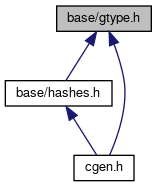
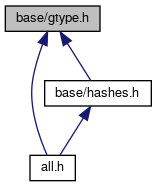
deploy: f9b943997057061925050f82cd76a0b1906fe555

diff --git a/core_8h_source.html b/core_8h_source.html
@@ -70,51 +70,49 @@ $(function() {
   <div class="headertitle"><div class="title">core.h</div></div>
 </div><!--header-->
 <div class="contents">
-<div class="fragment"><div class="line"><a id="l00001" name="l00001"></a><span class="lineno">    1</span><span class="comment">/*</span></div>
-<div class="line"><a id="l00002" name="l00002"></a><span class="lineno">    2</span><span class="comment">  (C) 2021 Nguyen Ba Ngoc (bangoc)</span></div>
-<div class="line"><a id="l00003" name="l00003"></a><span class="lineno">    3</span><span class="comment">*/</span></div>
-<div class="line"><a id="l00004" name="l00004"></a><span class="lineno">    4</span> </div>
-<div class="line"><a id="l00005" name="l00005"></a><span class="lineno">    5</span><span class="preprocessor">#ifndef BASE_CORE_H_</span></div>
-<div class="line"><a id="l00006" name="l00006"></a><span class="lineno">    6</span><span class="preprocessor">#define BASE_CORE_H_</span></div>
-<div class="line"><a id="l00007" name="l00007"></a><span class="lineno">    7</span> </div>
-<div class="line"><a id="l00008" name="l00008"></a><span class="lineno">    8</span><span class="preprocessor">#include &lt;stddef.h&gt;</span></div>
-<div class="line"><a id="l00009" name="l00009"></a><span class="lineno">    9</span><span class="preprocessor">#include &lt;time.h&gt;</span></div>
-<div class="line"><a id="l00010" name="l00010"></a><span class="lineno">   10</span> </div>
-<div class="line"><a id="l00011" name="l00011"></a><span class="lineno">   11</span><span class="preprocessor">#define container_of(ptr, type, member) \</span></div>
-<div class="line"><a id="l00012" name="l00012"></a><span class="lineno">   12</span><span class="preprocessor">  ((type *)((void*)(ptr) - offsetof(type, member)))</span></div>
+<div class="fragment"><div class="line"><a id="l00001" name="l00001"></a><span class="lineno">    1</span><span class="comment">/* (C) 2021 Nguyen Ba Ngoc (bangoc) */</span></div>
+<div class="line"><a id="l00002" name="l00002"></a><span class="lineno">    2</span> </div>
+<div class="line"><a id="l00003" name="l00003"></a><span class="lineno">    3</span><span class="preprocessor">#ifndef BASE_CORE_H_</span></div>
+<div class="line"><a id="l00004" name="l00004"></a><span class="lineno">    4</span><span class="preprocessor">#define BASE_CORE_H_</span></div>
+<div class="line"><a id="l00005" name="l00005"></a><span class="lineno">    5</span> </div>
+<div class="line"><a id="l00006" name="l00006"></a><span class="lineno">    6</span><span class="preprocessor">#include &lt;stddef.h&gt;</span></div>
+<div class="line"><a id="l00007" name="l00007"></a><span class="lineno">    7</span><span class="preprocessor">#include &lt;time.h&gt;</span></div>
+<div class="line"><a id="l00008" name="l00008"></a><span class="lineno">    8</span> </div>
+<div class="line"><a id="l00009" name="l00009"></a><span class="lineno">    9</span><span class="preprocessor">#define container_of(ptr, type, member) \</span></div>
+<div class="line"><a id="l00010" name="l00010"></a><span class="lineno">   10</span><span class="preprocessor">  ((type *)((void*)(ptr) - offsetof(type, member)))</span></div>
+<div class="line"><a id="l00011" name="l00011"></a><span class="lineno">   11</span> </div>
+<div class="line"><a id="l00012" name="l00012"></a><span class="lineno">   12</span><span class="preprocessor">#define New(TYPE, ...) TYPE ## _create(  __VA_ARGS__ )</span></div>
 <div class="line"><a id="l00013" name="l00013"></a><span class="lineno">   13</span> </div>
-<div class="line"><a id="l00014" name="l00014"></a><span class="lineno">   14</span><span class="preprocessor">#define New(TYPE, ...) TYPE ## _create(  __VA_ARGS__ )</span></div>
-<div class="line"><a id="l00015" name="l00015"></a><span class="lineno">   15</span> </div>
-<div class="line"><a id="l00016" name="l00016"></a><span class="lineno">   16</span><span class="preprocessor">#define Delete(TYPE, ptr) do        \</span></div>
-<div class="line"><a id="l00017" name="l00017"></a><span class="lineno">   17</span><span class="preprocessor">        {       \</span></div>
-<div class="line"><a id="l00018" name="l00018"></a><span class="lineno">   18</span><span class="preprocessor">          TYPE ## _free(ptr); \</span></div>
-<div class="line"><a id="l00019" name="l00019"></a><span class="lineno">   19</span><span class="preprocessor">          </span><span class="comment">/*free(ptr);*/</span><span class="preprocessor">    \</span></div>
-<div class="line"><a id="l00020" name="l00020"></a><span class="lineno">   20</span><span class="preprocessor">        }       \</span></div>
-<div class="line"><a id="l00021" name="l00021"></a><span class="lineno">   21</span><span class="preprocessor">        while(0)</span></div>
-<div class="line"><a id="l00022" name="l00022"></a><span class="lineno">   22</span> </div>
-<div class="line"><a id="l00023" name="l00023"></a><span class="lineno">   23</span><span class="preprocessor">#define BENCH(NAME, ITER, ...)    do { \</span></div>
-<div class="line"><a id="l00024" name="l00024"></a><span class="lineno">   24</span><span class="preprocessor">        double _sum = 0, _start, _stop; \</span></div>
-<div class="line"><a id="l00025" name="l00025"></a><span class="lineno">   25</span><span class="preprocessor">        for (int _i = 0; _i &lt; ITER; ++_i) { \</span></div>
-<div class="line"><a id="l00026" name="l00026"></a><span class="lineno">   26</span><span class="preprocessor">          _start = clock(); \</span></div>
-<div class="line"><a id="l00027" name="l00027"></a><span class="lineno">   27</span><span class="preprocessor">          { __VA_ARGS__; } \</span></div>
-<div class="line"><a id="l00028" name="l00028"></a><span class="lineno">   28</span><span class="preprocessor">          _stop = clock(); \</span></div>
-<div class="line"><a id="l00029" name="l00029"></a><span class="lineno">   29</span><span class="preprocessor">          _sum += _stop - _start; \</span></div>
-<div class="line"><a id="l00030" name="l00030"></a><span class="lineno">   30</span><span class="preprocessor">        } \</span></div>
-<div class="line"><a id="l00031" name="l00031"></a><span class="lineno">   31</span><span class="preprocessor">        if (ITER &gt; 1) { \</span></div>
-<div class="line"><a id="l00032" name="l00032"></a><span class="lineno">   32</span><span class="preprocessor">          printf(&quot;%s (trung bình %d lượt) = %.5g s\n&quot;</span>, \</div>
-<div class="line"><a id="l00033" name="l00033"></a><span class="lineno">   33</span>                NAME, ITER,  (_sum/CLOCKS_PER_SEC) / ITER); \</div>
-<div class="line"><a id="l00034" name="l00034"></a><span class="lineno">   34</span>        } else { \</div>
-<div class="line"><a id="l00035" name="l00035"></a><span class="lineno">   35</span>          printf(&quot;%s: %5g s\n&quot;, NAME, _sum/CLOCKS_PER_SEC); \</div>
-<div class="line"><a id="l00036" name="l00036"></a><span class="lineno">   36</span>        }\</div>
-<div class="line"><a id="l00037" name="l00037"></a><span class="lineno">   37</span>    } while (0)</div>
-<div class="line"><a id="l00038" name="l00038"></a><span class="lineno">   38</span> </div>
-<div class="line"><a id="l00039" name="l00039"></a><span class="lineno">   39</span><span class="preprocessor">#define BENCH1_START() \</span></div>
-<div class="line"><a id="l00040" name="l00040"></a><span class="lineno">   40</span><span class="preprocessor">   long _bench1_start = clock()</span></div>
-<div class="line"><a id="l00041" name="l00041"></a><span class="lineno">   41</span><span class="preprocessor">#define BENCH1_END() \</span></div>
-<div class="line"><a id="l00042" name="l00042"></a><span class="lineno">   42</span><span class="preprocessor">   long _bench1_end = clock(); \</span></div>
-<div class="line"><a id="l00043" name="l00043"></a><span class="lineno">   43</span><span class="preprocessor">   printf(&quot;Time: %.3f\n&quot;</span>, (double)(_bench1_end - _bench1_start)/CLOCKS_PER_SEC)</div>
-<div class="line"><a id="l00044" name="l00044"></a><span class="lineno">   44</span> </div>
-<div class="line"><a id="l00045" name="l00045"></a><span class="lineno">   45</span><span class="preprocessor">#endif  </span><span class="comment">// BASE_CORE_H_</span></div>
+<div class="line"><a id="l00014" name="l00014"></a><span class="lineno">   14</span><span class="preprocessor">#define Delete(TYPE, ptr) do        \</span></div>
+<div class="line"><a id="l00015" name="l00015"></a><span class="lineno">   15</span><span class="preprocessor">        {       \</span></div>
+<div class="line"><a id="l00016" name="l00016"></a><span class="lineno">   16</span><span class="preprocessor">          TYPE ## _free(ptr); \</span></div>
+<div class="line"><a id="l00017" name="l00017"></a><span class="lineno">   17</span><span class="preprocessor">          </span><span class="comment">/*free(ptr);*/</span><span class="preprocessor">    \</span></div>
+<div class="line"><a id="l00018" name="l00018"></a><span class="lineno">   18</span><span class="preprocessor">        }       \</span></div>
+<div class="line"><a id="l00019" name="l00019"></a><span class="lineno">   19</span><span class="preprocessor">        while(0)</span></div>
+<div class="line"><a id="l00020" name="l00020"></a><span class="lineno">   20</span> </div>
+<div class="line"><a id="l00021" name="l00021"></a><span class="lineno">   21</span><span class="preprocessor">#define BENCH(NAME, ITER, ...)    do { \</span></div>
+<div class="line"><a id="l00022" name="l00022"></a><span class="lineno">   22</span><span class="preprocessor">        double _sum = 0, _start, _stop; \</span></div>
+<div class="line"><a id="l00023" name="l00023"></a><span class="lineno">   23</span><span class="preprocessor">        for (int _i = 0; _i &lt; ITER; ++_i) { \</span></div>
+<div class="line"><a id="l00024" name="l00024"></a><span class="lineno">   24</span><span class="preprocessor">          _start = clock(); \</span></div>
+<div class="line"><a id="l00025" name="l00025"></a><span class="lineno">   25</span><span class="preprocessor">          { __VA_ARGS__; } \</span></div>
+<div class="line"><a id="l00026" name="l00026"></a><span class="lineno">   26</span><span class="preprocessor">          _stop = clock(); \</span></div>
+<div class="line"><a id="l00027" name="l00027"></a><span class="lineno">   27</span><span class="preprocessor">          _sum += _stop - _start; \</span></div>
+<div class="line"><a id="l00028" name="l00028"></a><span class="lineno">   28</span><span class="preprocessor">        } \</span></div>
+<div class="line"><a id="l00029" name="l00029"></a><span class="lineno">   29</span><span class="preprocessor">        if (ITER &gt; 1) { \</span></div>
+<div class="line"><a id="l00030" name="l00030"></a><span class="lineno">   30</span><span class="preprocessor">          printf(&quot;%s (trung bình %d lượt) = %.5g s\n&quot;</span>, \</div>
+<div class="line"><a id="l00031" name="l00031"></a><span class="lineno">   31</span>                NAME, ITER,  (_sum/CLOCKS_PER_SEC) / ITER); \</div>
+<div class="line"><a id="l00032" name="l00032"></a><span class="lineno">   32</span>        } else { \</div>
+<div class="line"><a id="l00033" name="l00033"></a><span class="lineno">   33</span>          printf(&quot;%s: %5g s\n&quot;, NAME, _sum/CLOCKS_PER_SEC); \</div>
+<div class="line"><a id="l00034" name="l00034"></a><span class="lineno">   34</span>        }\</div>
+<div class="line"><a id="l00035" name="l00035"></a><span class="lineno">   35</span>    } while (0)</div>
+<div class="line"><a id="l00036" name="l00036"></a><span class="lineno">   36</span> </div>
+<div class="line"><a id="l00037" name="l00037"></a><span class="lineno">   37</span><span class="preprocessor">#define BENCH1_START() \</span></div>
+<div class="line"><a id="l00038" name="l00038"></a><span class="lineno">   38</span><span class="preprocessor">   long _bench1_start = clock()</span></div>
+<div class="line"><a id="l00039" name="l00039"></a><span class="lineno">   39</span><span class="preprocessor">#define BENCH1_END() \</span></div>
+<div class="line"><a id="l00040" name="l00040"></a><span class="lineno">   40</span><span class="preprocessor">   long _bench1_end = clock(); \</span></div>
+<div class="line"><a id="l00041" name="l00041"></a><span class="lineno">   41</span><span class="preprocessor">   printf(&quot;Time: %.3f\n&quot;</span>, (double)(_bench1_end - _bench1_start)/CLOCKS_PER_SEC)</div>
+<div class="line"><a id="l00042" name="l00042"></a><span class="lineno">   42</span> </div>
+<div class="line"><a id="l00043" name="l00043"></a><span class="lineno">   43</span><span class="preprocessor">#endif  </span><span class="comment">// BASE_CORE_H_</span></div>
 </div><!-- fragment --></div><!-- contents -->
 <!-- start footer part -->
 <hr class="footer"/><address class="footer"><small>

diff --git a/all_8h_source.html b/all_8h_source.html
@@ -5,7 +5,7 @@
 <meta http-equiv="X-UA-Compatible" content="IE=11"/>
 <meta name="generator" content="Doxygen 1.9.2"/>
 <meta name="viewport" content="width=device-width, initial-scale=1"/>
-<title>Thư viện cgen: cgen.h File nguồn</title>
+<title>Thư viện cgen: all.h File nguồn</title>
 <link href="tabs.css" rel="stylesheet" type="text/css"/>
 <script type="text/javascript" src="jquery.js"></script>
 <script type="text/javascript" src="dynsections.js"></script>
@@ -63,11 +63,11 @@ $(function() {
 </div>
 
 <div class="header">
-  <div class="headertitle"><div class="title">cgen.h</div></div>
+  <div class="headertitle"><div class="title">all.h</div></div>
 </div><!--header-->
 <div class="contents">
-<div class="fragment"><div class="line"><a id="l00001" name="l00001"></a><span class="lineno">    1</span><span class="preprocessor">#ifndef CGEN_H_</span></div>
-<div class="line"><a id="l00002" name="l00002"></a><span class="lineno">    2</span><span class="preprocessor">#define CGEN_H_</span></div>
+<div class="fragment"><div class="line"><a id="l00001" name="l00001"></a><span class="lineno">    1</span><span class="preprocessor">#ifndef ALL_H_</span></div>
+<div class="line"><a id="l00002" name="l00002"></a><span class="lineno">    2</span><span class="preprocessor">#define ALL_H_</span></div>
 <div class="line"><a id="l00003" name="l00003"></a><span class="lineno">    3</span> </div>
 <div class="line"><a id="l00004" name="l00004"></a><span class="lineno">    4</span><span class="preprocessor">#include &quot;base/core.h&quot;</span></div>
 <div class="line"><a id="l00005" name="l00005"></a><span class="lineno">    5</span><span class="preprocessor">#include &quot;<a class="code" href="gtype_8h.html">base/gtype.h</a>&quot;</span></div>
@@ -86,19 +86,20 @@ $(function() {
 <div class="line"><a id="l00018" name="l00018"></a><span class="lineno">   18</span><span class="preprocessor">#include &quot;list/sll.h&quot;</span></div>
 <div class="line"><a id="l00019" name="l00019"></a><span class="lineno">   19</span><span class="preprocessor">#include &quot;list/spec/idl.h&quot;</span></div>
 <div class="line"><a id="l00020" name="l00020"></a><span class="lineno">   20</span><span class="preprocessor">#include &quot;list/spec/isl.h&quot;</span></div>
-<div class="line"><a id="l00021" name="l00021"></a><span class="lineno">   21</span><span class="preprocessor">#include &quot;tree/bn.h&quot;</span></div>
-<div class="line"><a id="l00022" name="l00022"></a><span class="lineno">   22</span><span class="preprocessor">#include &quot;tree/bs.h&quot;</span></div>
-<div class="line"><a id="l00023" name="l00023"></a><span class="lineno">   23</span><span class="preprocessor">#include &quot;tree/rb.h&quot;</span></div>
-<div class="line"><a id="l00024" name="l00024"></a><span class="lineno">   24</span><span class="preprocessor">#include &quot;tree/rbm.h&quot;</span></div>
-<div class="line"><a id="l00025" name="l00025"></a><span class="lineno">   25</span><span class="preprocessor">#include &quot;tree/rbs.h&quot;</span></div>
-<div class="line"><a id="l00026" name="l00026"></a><span class="lineno">   26</span><span class="preprocessor">#include &quot;tree/spec/gbs.h&quot;</span></div>
-<div class="line"><a id="l00027" name="l00027"></a><span class="lineno">   27</span><span class="preprocessor">#include &quot;tree/spec/grb.h&quot;</span></div>
-<div class="line"><a id="l00028" name="l00028"></a><span class="lineno">   28</span><span class="preprocessor">#include &quot;tree/spec/s2i.h&quot;</span></div>
-<div class="line"><a id="l00029" name="l00029"></a><span class="lineno">   29</span><span class="preprocessor">#include &quot;utils/io.h&quot;</span></div>
+<div class="line"><a id="l00021" name="l00021"></a><span class="lineno">   21</span><span class="preprocessor">#include &quot;mix/s2w.h&quot;</span></div>
+<div class="line"><a id="l00022" name="l00022"></a><span class="lineno">   22</span><span class="preprocessor">#include &quot;tree/bn.h&quot;</span></div>
+<div class="line"><a id="l00023" name="l00023"></a><span class="lineno">   23</span><span class="preprocessor">#include &quot;tree/bs.h&quot;</span></div>
+<div class="line"><a id="l00024" name="l00024"></a><span class="lineno">   24</span><span class="preprocessor">#include &quot;tree/rb.h&quot;</span></div>
+<div class="line"><a id="l00025" name="l00025"></a><span class="lineno">   25</span><span class="preprocessor">#include &quot;tree/rbm.h&quot;</span></div>
+<div class="line"><a id="l00026" name="l00026"></a><span class="lineno">   26</span><span class="preprocessor">#include &quot;tree/rbs.h&quot;</span></div>
+<div class="line"><a id="l00027" name="l00027"></a><span class="lineno">   27</span><span class="preprocessor">#include &quot;tree/spec/gbs.h&quot;</span></div>
+<div class="line"><a id="l00028" name="l00028"></a><span class="lineno">   28</span><span class="preprocessor">#include &quot;tree/spec/grb.h&quot;</span></div>
+<div class="line"><a id="l00029" name="l00029"></a><span class="lineno">   29</span><span class="preprocessor">#include &quot;tree/spec/s2i.h&quot;</span></div>
 <div class="line"><a id="l00030" name="l00030"></a><span class="lineno">   30</span><span class="preprocessor">#include &quot;utils/io.h&quot;</span></div>
-<div class="line"><a id="l00031" name="l00031"></a><span class="lineno">   31</span><span class="preprocessor">#include &quot;utils/str.h&quot;</span></div>
-<div class="line"><a id="l00032" name="l00032"></a><span class="lineno">   32</span> </div>
-<div class="line"><a id="l00033" name="l00033"></a><span class="lineno">   33</span><span class="preprocessor">#endif  </span><span class="comment">// CGEN_H_</span></div>
+<div class="line"><a id="l00031" name="l00031"></a><span class="lineno">   31</span><span class="preprocessor">#include &quot;utils/io.h&quot;</span></div>
+<div class="line"><a id="l00032" name="l00032"></a><span class="lineno">   32</span><span class="preprocessor">#include &quot;utils/str.h&quot;</span></div>
+<div class="line"><a id="l00033" name="l00033"></a><span class="lineno">   33</span> </div>
+<div class="line"><a id="l00034" name="l00034"></a><span class="lineno">   34</span><span class="preprocessor">#endif  </span><span class="comment">// ALL_H_</span></div>
 <div class="ttc" id="agtype_8h_html"><div class="ttname"><a href="gtype_8h.html">gtype.h</a></div><div class="ttdoc">Định nghĩa kiểu gtype và các thành phần bổ trợ.</div></div>
 </div><!-- fragment --></div><!-- contents -->
 <!-- start footer part -->

diff --git a/files.html b/files.html
@@ -72,7 +72,7 @@ $(function() {
 <tr id="row_0_0_"><td class="entry"><span style="width:32px;display:inline-block;">&#160;</span><a href="core_8h_source.html"><span class="icondoc"></span></a><b>core.h</b></td><td class="desc"></td></tr>
 <tr id="row_0_1_" class="even"><td class="entry"><span style="width:32px;display:inline-block;">&#160;</span><a href="gtype_8h_source.html"><span class="icondoc"></span></a><a class="el" href="gtype_8h.html" target="_self">gtype.h</a></td><td class="desc">Định nghĩa kiểu <a class="el" href="gtype_8h.html#a22df69f0a905ba3f8c833d29b2adfa46">gtype</a> và các thành phần bổ trợ </td></tr>
 <tr id="row_0_2_"><td class="entry"><span style="width:32px;display:inline-block;">&#160;</span><a href="hashes_8h_source.html"><span class="icondoc"></span></a><b>hashes.h</b></td><td class="desc"></td></tr>
-<tr id="row_1_" class="even"><td class="entry"><span style="width:16px;display:inline-block;">&#160;</span><a href="cgen_8h_source.html"><span class="icondoc"></span></a><b>cgen.h</b></td><td class="desc"></td></tr>
+<tr id="row_1_" class="even"><td class="entry"><span style="width:16px;display:inline-block;">&#160;</span><a href="all_8h_source.html"><span class="icondoc"></span></a><b>all.h</b></td><td class="desc"></td></tr>
 </table>
 </div><!-- directory -->
 </div><!-- contents -->

diff --git a/index.html b/index.html
@@ -69,9 +69,9 @@ $(function() {
 <div class="textblock"><p ><a class="anchor" id="md_README"></a>Triển khai khái quát các cấu trúc dữ liệu lưu trữ cơ bản</p>
 <h1>Hướng dẫn biên dịch</h1>
 <p >Tệp mã nguồn, ví dụ main.c:</p>
-<div class="fragment"><div class="line"><span class="preprocessor">#include &quot;cgen.h&quot;</span></div>
+<div class="fragment"><div class="line"><span class="preprocessor">#include &quot;all.h&quot;</span></div>
 <div class="line"><span class="comment">/*...*/</span></div>
-</div><!-- fragment --><p >Trong đó <a class="el" href="cgen_8h_source.html">cgen.h</a> là tệp tổng hợp các tệp tiêu đề của cgen.</p>
+</div><!-- fragment --><p >Trong đó cgen.h là tệp tổng hợp các tệp tiêu đề của cgen.</p>
 <h2>1. Biên dịch với gcc trong môi trường dòng lệnh</h2>
 <div class="fragment"><div class="line">gcc -o prog main.c ${CGEN_PATH}/all.c -I ${CGEN_PATH}</div>
 </div><!-- fragment --><p >Trong đó ${CGEN_PATH} là đường dẫn tới thư mục cgen;</p>

diff --git a/gtype_8h.html b/gtype_8h.html
@@ -95,9 +95,9 @@ Kèm theo graph phụ thuộc cho gtype.h:</div>
 <div class="dyncontent">
 <div class="center"><img src="gtype_8h__dep__incl.png" border="0" usemap="#abase_2gtype_8hdep" alt=""/></div>
 <map name="abase_2gtype_8hdep" id="abase_2gtype_8hdep">
-<area shape="rect" title="Định nghĩa kiểu gtype và các thành phần bổ trợ." alt="" coords="57,5,151,32"/>
-<area shape="rect" href="hashes_8h_source.html" title=" " alt="" coords="5,80,112,107"/>
-<area shape="rect" href="cgen_8h_source.html" title=" " alt="" coords="74,155,134,181"/>
+<area shape="rect" title="Định nghĩa kiểu gtype và các thành phần bổ trợ." alt="" coords="5,5,100,32"/>
+<area shape="rect" href="all_8h_source.html" title=" " alt="" coords="30,155,75,181"/>
+<area shape="rect" href="hashes_8h_source.html" title=" " alt="" coords="45,80,151,107"/>
 </map>
 </div>
 </div>

diff --git a/uniongeneric__type.html b/uniongeneric__type.html
@@ -69,7 +69,7 @@ $(function() {
 </div><!--header-->
 <div class="contents">
 
-<p><code>#include &quot;<a class="el" href="cgen_8h_source.html">cgen.h</a>&quot;</code></p>
+<p><code>#include &quot;<a class="el" href="all_8h_source.html">all.h</a>&quot;</code></p>
 <div class="dynheader">
 Sơ đồ liên kết cho generic_type:</div>
 <div class="dyncontent">
